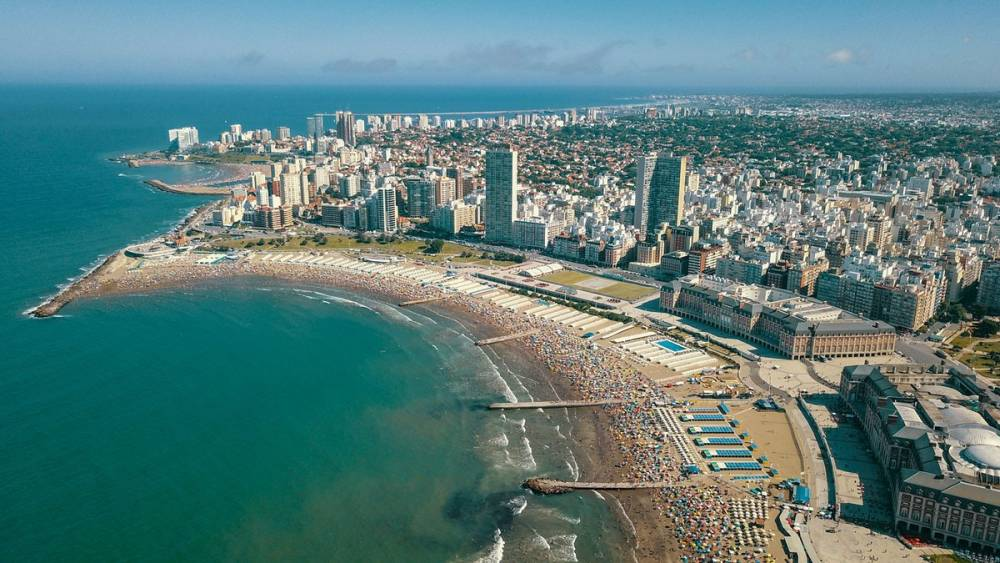
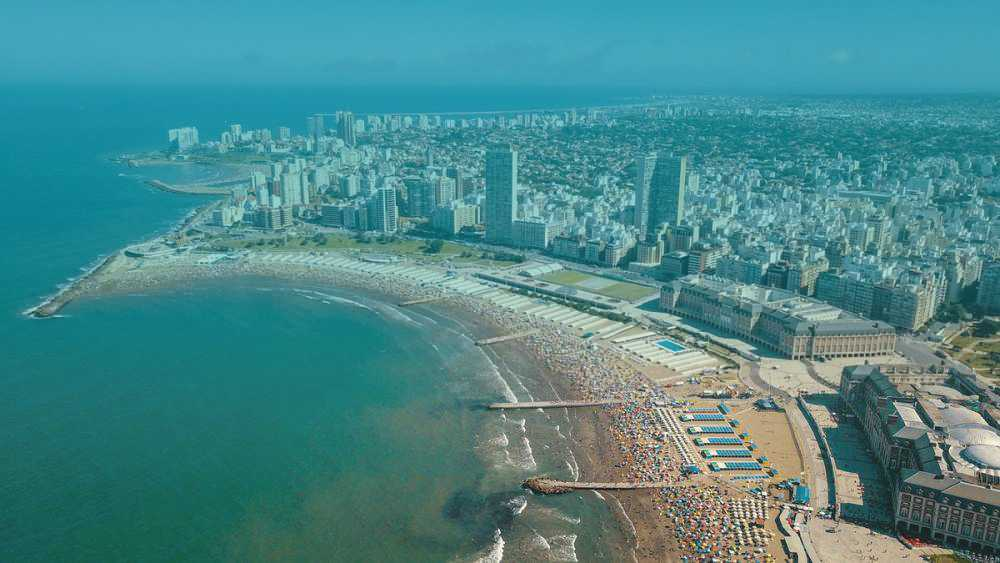
,

diff --git a/src/assets/css/StyledContacto.js b/src/assets/css/StyledContacto.js
@@ -1,14 +1,14 @@
 import styled from 'styled-components'
-import fondo from '../img/mardel.jpg'
+import fondo from '../img/mardel2.jpg'
 
 
 const Contacto = styled.div `
     display:grid;
-    grid-template-columns: 1fr 1fr;
-    grid-template-rows: 1fr 2fr;
+    grid-template-columns:  2fr;
+    grid-template-rows: 2fr;
     grid-gap: 5px;
     background-image: url("${fondo}");
-    width: 100%;
+    width: 100vw;
     max-width: 100%;
     height: 120vh;  
     background-position: center;
@@ -16,8 +16,15 @@ const Contacto = styled.div `
     background-repeat: no-repeat; 
     background-size: cover;
     padding:15px;
+    top: 8vh;
+    overflow:hidden;
 
-      
+    .informacion{
+        margin-top: 10vh;
+        background: grey;
+        height: 50%;
+        width: 50%;
+    }
 `
 
 export default Contacto

diff --git a/src/assets/css/StyledFormulario.js b/src/assets/css/StyledFormulario.js
@@ -8,11 +8,12 @@ const StyledFormulario = styled.div `
     align-content: center;
     justify-content:center;
     font-family: 'Roboto', sans-serif;
+    background: rgba(255, 255, 255, 0.5);
     
 
  input,textarea{ 
     position:relative;
-    background-color: transparent;
+    background-color: white;
     border: 1px solid #E3E3E3;
     border-radius: 30px;
     color: #2c2c2c;

diff --git a/src/pages/contact.js b/src/pages/contact.js
@@ -8,6 +8,13 @@ const Contact = () => {
   return (
     <Contacto>
       <Formulario />
+      <div className='informacion'>
+        <h3>Teléfono</h3>
+        <h3>Dirección</h3>
+        <h3>WhatsApp
+        <h3>hola</h3>
+        </h3>
+      </div>
       <Mapa />
 
     </Contacto>

diff --git a/src/components/Mapa.js b/src/components/Mapa.js
@@ -6,7 +6,7 @@ import Data from '../assets/mapgeojson.js'
 
 // Estilo del div principal del mapa, aca ajusta tamaño
 const styles = {
-  top:50%
+
   wrapper: { 
     height: 400, 
     width: '80%', 
